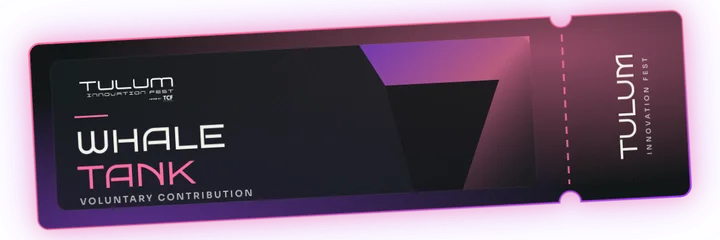
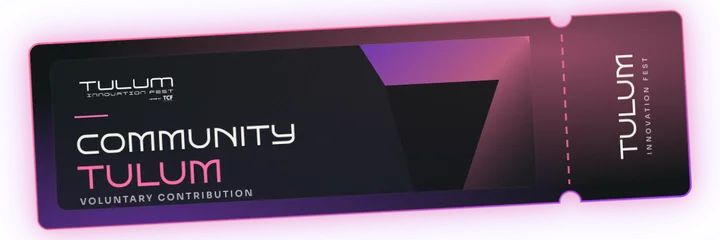
Voluntary contribution is for Tulum community volunteers, open amount
Renamed to 'TIF 2026 · Community contribution' (festival category, new art), no minimum
shown, removed the 'not a ticket / no access' wording.

Claude-Session: https://claude.ai/code/session_01Qi8kMQmVG36e5PKBR8Hyx4

Changed region(s): [[0.0917, 0.4958, 0.4278, 0.7875]]

diff --git a/checkout/checkout.js b/checkout/checkout.js
@@ -9,7 +9,7 @@
   const T = {
     en: {
       errors: {
-        invalid_name: 'Please enter your full name.', invalid_email: 'Please enter a valid email.', invalid_quantity: 'That quantity is not available for this product.', invalid_amount: 'Enter an amount between US$1 and US$100,000.',
+        invalid_name: 'Please enter your full name.', invalid_email: 'Please enter a valid email.', invalid_quantity: 'That quantity is not available for this product.', invalid_amount: 'Enter the amount you want to contribute.',
         terms_required: 'Please accept the purchase terms.', pass_unavailable: 'That product is not available right now.', rate_not_set: 'Payments are not available right now. Please try again later.',
         order_expired: 'This order expired. Start again.', method_not_allowed: 'That payment method is not available.', method_unavailable: 'That payment method is coming soon. Please choose another one.',
         too_many_attempts: 'Too many attempts for this order. Start again.', payment_provider_error: 'That method did not respond. Choose another method or try again.',
@@ -42,7 +42,7 @@
     },
     es: {
       errors: {
-        invalid_name: 'Escribe tu nombre completo.', invalid_email: 'Escribe un correo válido.', invalid_quantity: 'Esa cantidad no está disponible para este producto.', invalid_amount: 'Escribe un monto entre US$1 y US$100,000.',
+        invalid_name: 'Escribe tu nombre completo.', invalid_email: 'Escribe un correo válido.', invalid_quantity: 'Esa cantidad no está disponible para este producto.', invalid_amount: 'Escribe el monto que quieres aportar.',
         terms_required: 'Acepta los términos de compra.', pass_unavailable: 'Ese producto no está disponible por ahora.', rate_not_set: 'Los pagos no están disponibles por ahora. Intenta más tarde.',
         order_expired: 'Esta orden venció. Empieza de nuevo.', method_not_allowed: 'Ese método de pago no está disponible.', method_unavailable: 'Ese método llega muy pronto. Elige otro, por favor.',
         too_many_attempts: 'Demasiados intentos para esta orden. Empieza de nuevo.', payment_provider_error: 'Ese método no respondió. Elige otro método o intenta de nuevo.',
@@ -232,7 +232,7 @@
     $('detailName').textContent = p.name;
     $('detailTag').textContent = L(p.content?.tagline);
     $('detailPrice').textContent = p.pricePending ? t().pending
-      : p.content?.customAmount ? (state.lang === 'es' ? `Monto libre · desde ${usd(p.content.customAmount.min)}` : `Your amount · from ${usd(p.content.customAmount.min)}`)
+      : p.content?.customAmount ? (state.lang === 'es' ? 'Monto libre' : 'Your amount')
       : p.pricedIn === 'MXN' ? `${p.priceUsd ? `${usd(p.priceUsd)} · ` : ''}${mxn(p.priceMxn)}${p.maxQuantity > 1 ? ` ${t().perUnit}` : ''}`
       : `${usd(p.priceUsd)}${p.taxRate > 0 ? ` ${t().plusVat} = ${usd(p.totalUsd)}` : ''}${p.priceMxn ? ` · ${mxn(p.priceMxn)}` : ''}${p.maxQuantity > 1 ? ` ${t().perUnit}` : ''}`;
     const buy = $('detailBuy');

diff --git a/checkout/index.html b/checkout/index.html
@@ -16,7 +16,7 @@
   <link rel="preconnect" href="https://fonts.googleapis.com" />
   <link rel="preconnect" href="https://fonts.gstatic.com" crossorigin />
   <link href="https://fonts.googleapis.com/css2?family=Bruno+Ace&family=Sora:wght@300;400;500;600;700&display=swap" rel="stylesheet" />
-  <link rel="stylesheet" href="/checkout/checkout.css?v=20261027b" />
+  <link rel="stylesheet" href="/checkout/checkout.css?v=20261027c" />
 </head>
 <body class="co-page">
   <noscript><iframe src="https://www.googletagmanager.com/ns.html?id=GTM-5XJG96K" height="0" width="0" style="display:none;visibility:hidden"></iframe></noscript>
@@ -59,9 +59,9 @@
           </div>
           <div class="co-amount" id="amountBox" hidden>
             <label for="amount"><span data-en>Amount you want to contribute (USD)</span><span data-es>Monto que quieres aportar (USD)</span> <b aria-hidden="true">*</b></label>
-            <div class="co-amount-input"><span aria-hidden="true">US$</span><input id="amount" name="amount" type="number" inputmode="decimal" min="1" max="100000" step="1" placeholder="100" /></div>
+            <div class="co-amount-input"><span aria-hidden="true">US$</span><input id="amount" name="amount" type="number" inputmode="decimal" min="1" max="100000" step="1" /></div>
             <small class="co-err" id="amount-err" aria-live="polite"></small>
-            <p class="co-amount-note"><span data-en>For authorized voluntary payments only. Charged in MXN at the current rate. A contribution is not a ticket and does not give festival access.</span><span data-es>Exclusivo para pagos voluntarios autorizados. Se cobra en MXN al tipo de cambio vigente. Una contribución no es un boleto ni da acceso al festival.</span></p>
+            <p class="co-amount-note"><span data-en>For authorized voluntary payments only. Charged in MXN at the current rate.</span><span data-es>Exclusivo para pagos voluntarios autorizados. Se cobra en MXN al tipo de cambio vigente.</span></p>
           </div>
         </section>
 
@@ -320,6 +320,6 @@
     </div>
   </dialog>
 
-  <script src="/checkout/checkout.js?v=20261027a" defer></script>
+  <script src="/checkout/checkout.js?v=20261027c" defer></script>
 </body>
 </html>
